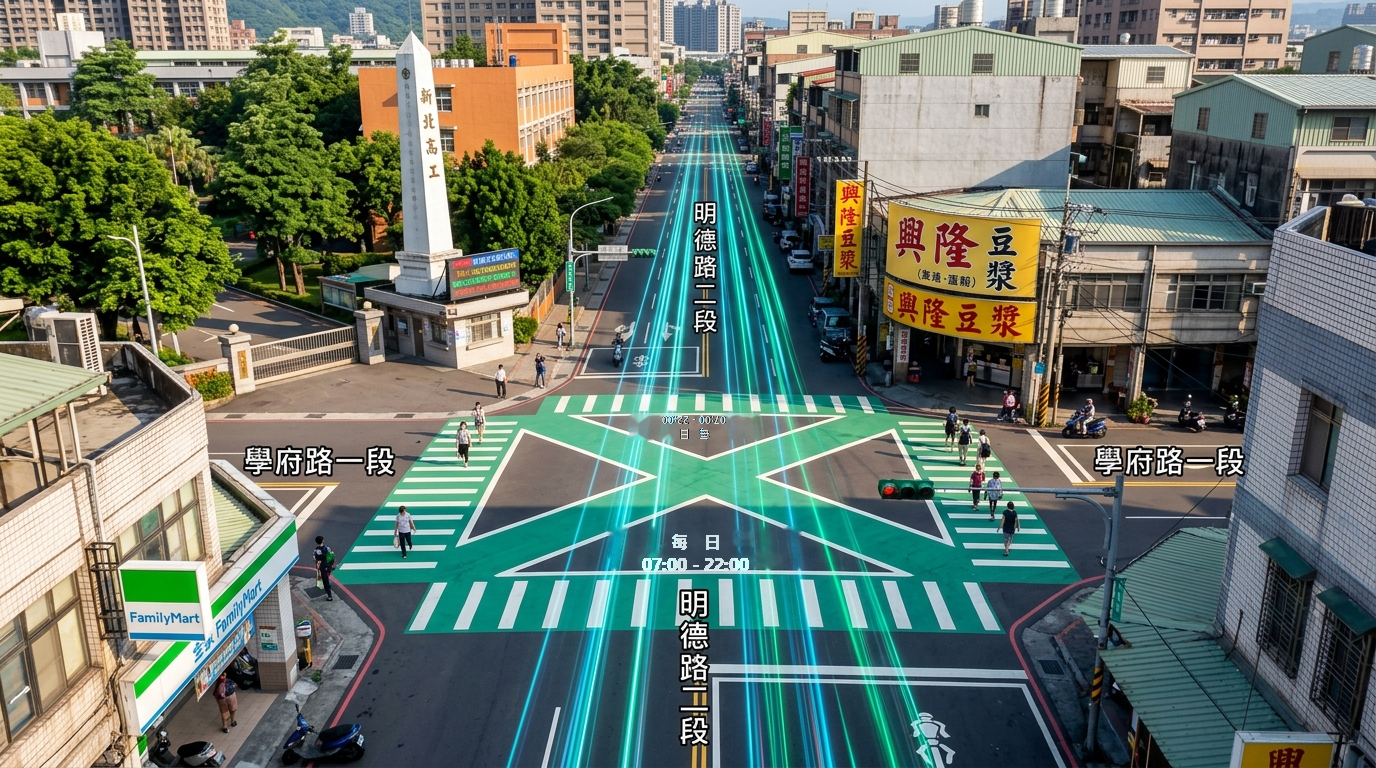
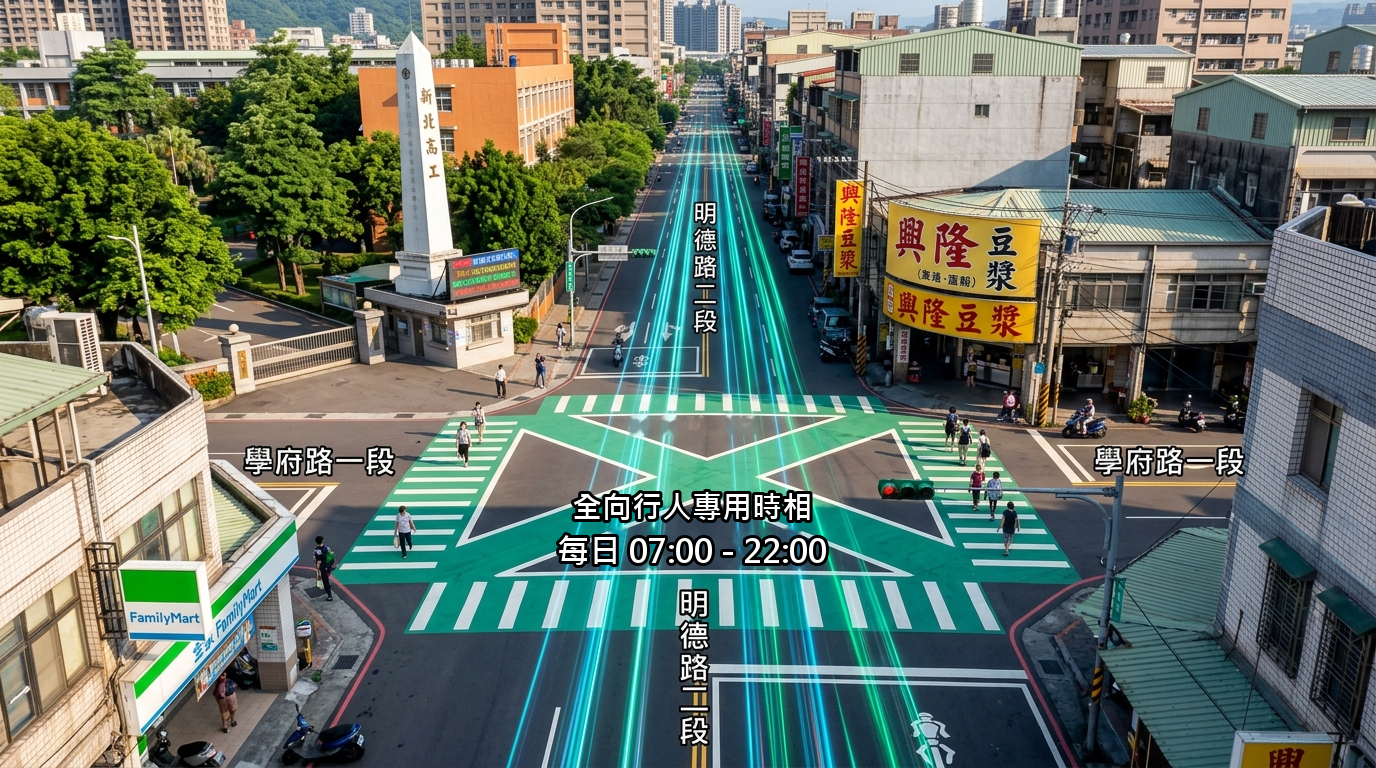
Auto backup by AI: 政見04願景圖路口文字巨幅化並破除快取至 v58.01

Changed region(s): [[0.4062, 0.625, 0.625, 0.75], [0.4688, 0.5312, 0.5312, 0.5938]]

diff --git a/js/main.js b/js/main.js
@@ -96,7 +96,7 @@ const POLICIES_DATA = [
         categoryName: "人本交通與智慧安防",
         title: "智慧交通號誌 ＋ 解決塞車問題",
         subtitle: "海山、學府、學士路口<span class=\"hl-subtitle-green\">紅綠燈不同步</span>，爭取<span class=\"hl-subtitle-green\">動態綠波</span>與<span class=\"hl-subtitle-green\">行人專用時相</span>，告別塞車！",
-        image: "images/policy_04_traffic.png?v=57.17",
+        image: "images/policy_04_traffic.png?v=58.01",
         budgetSource: "交通局交控專案 ＋ 行人友善改善計畫",
         budgetSub: "<span class=\"hl-keyword\">完全不會動用</span>明德里 88 萬基層款",
         budgetDesc: "",
